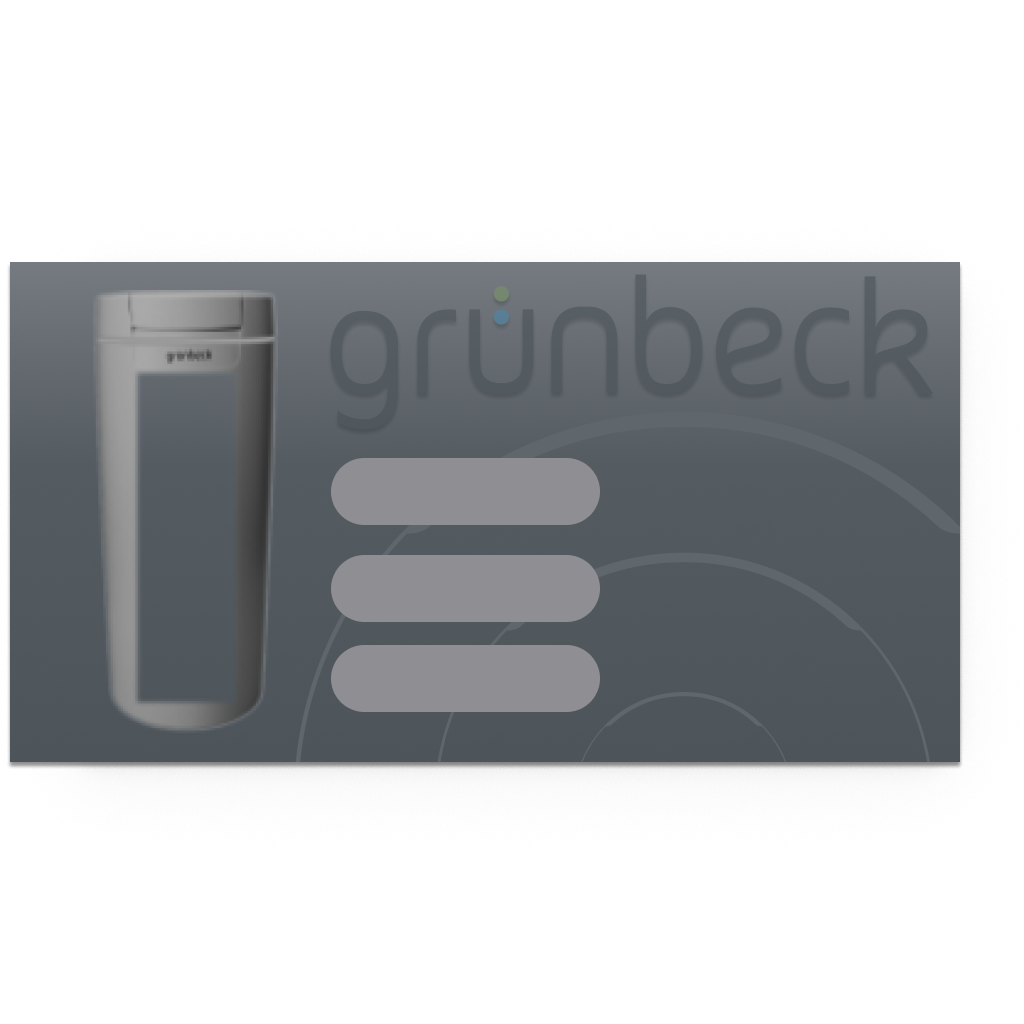
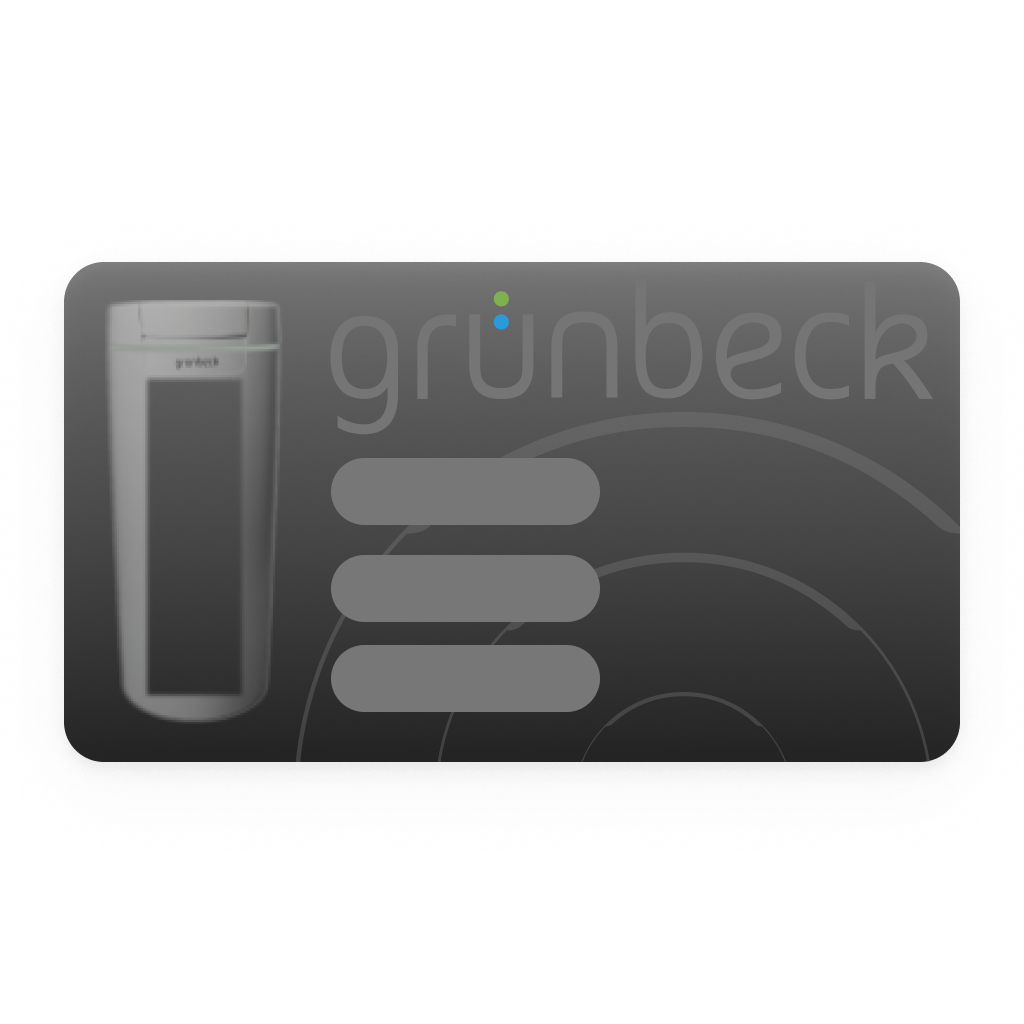
1.3.4
Widget: Added light/dark theme.

Changed region(s): [[0.0, 0.25, 0.9375, 0.75], [0.5625, 0.2812, 0.9062, 0.4062], [0.9062, 0.25, 0.9375, 0.2812]]

diff --git a/widgets/state/public/index.html b/widgets/state/public/index.html
@@ -13,7 +13,7 @@
             left: 0px;
         }
         #body{
-            background-image: url('background.svg');
+            background-image: url('background_transparent.svg');
         }
         #div_background{
             padding: var(--homey-su-2);
@@ -90,21 +90,21 @@
             mask-image: url('measure_remaining_capacity.svg');
             /* display: inline-grid; */
             --homey-icon-size: var(--homey-icon-size-regular);
-            background-color: var(--homey-color-white);
+            /* background-color: var(--homey-color-white); */
         }
         .homey-custom-icon-measure_salt_level {
             -webkit-mask-image: url('measure_salt_level.svg');
             mask-image: url('measure_salt_level.svg');
             /* display: inline-grid; */
             --homey-icon-size: var(--homey-icon-size-regular);
-            background-color: var(--homey-color-white);
+            /* background-color: var(--homey-color-white); */
         }
         .homey-custom-icon-alarm_regeneration_active {
             -webkit-mask-image: url('alarm_regeneration_active.svg');
             mask-image: url('alarm_regeneration_active.svg');
             /* display: inline-grid; */
             --homey-icon-size: var(--homey-icon-size-regular);
-            background-color: var(--homey-color-white);
+            /* background-color: var(--homey-color-white); */
         }
         .homey-custom-icon-measure_last_update {
             -webkit-mask-image: url('measure_last_update.svg');
@@ -116,7 +116,7 @@
         
         .text_capability {
             vertical-align: super;
-            color: var(--homey-color-white);
+            /* color: var(--homey-color-white); */
             margin-left: 3px;
         }
         .text_last_update {
